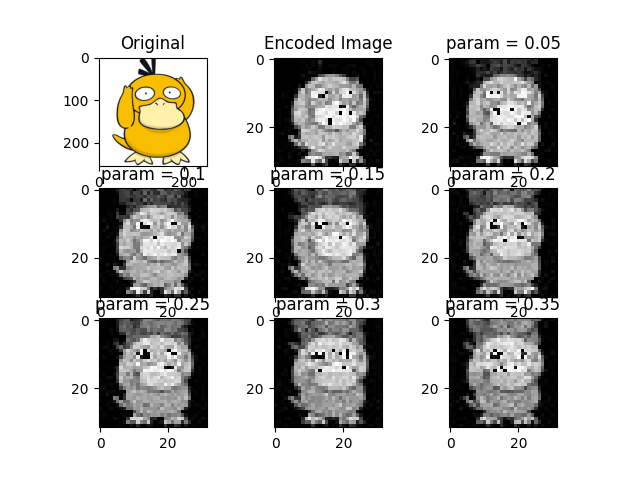
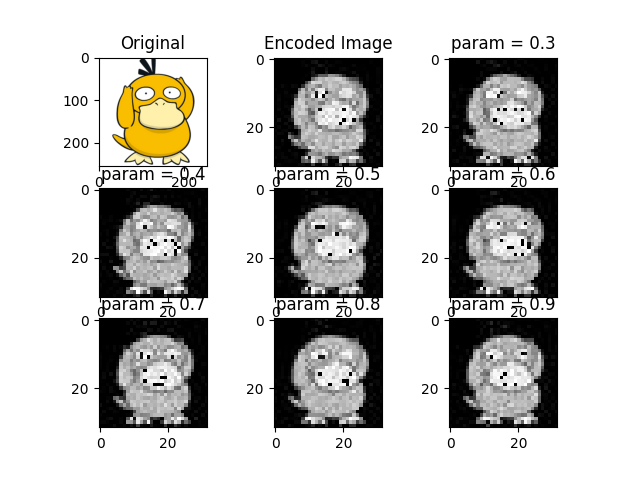
new upload

diff --git a/experiments.py b/experiments.py
@@ -1,4 +1,7 @@
 from PIL import Image
+from fontTools.ttLib.tables.ttProgram import instructions
+from qiskit.circuit.library.standard_gates.equivalence_library import instr
+
 from imageUtil import *
 from generalImageRepresentation import *
 from circuits import amplitudeEncoding, simulate
@@ -32,7 +35,7 @@ def experiments(experSettings):
         qc, sqSum, n = amplitudeEncoding(vec)
         keySet = generateKeySet(n)
         # build ideal simulator
-        ideal_sim = constructBackend('statevector', 0, n)
+        ideal_sim = constructBackend('statevector', 0, n, [])
         distIdeal = simulate(qc, shots, ideal_sim)
         imgEncoded = ampDisReversion(distIdeal, keySet, sqSum, shots, n)
         encodedImgPath = imageSave(imgEncoded, 'Encoded', result_home, params=0)
@@ -48,7 +51,7 @@ def experiments(experSettings):
 
         # experiment on noise simulator
         for param in tqdm(experSettings['modelParams']):
-            noise_sim = constructBackend(method=experSettings['noiseModel'], params = param, qb_nums=n)
+            noise_sim = constructBackend(method=experSettings['noiseModel'], params = param, qb_nums=n, instructions=experSettings['instructions'])
             dist = simulate(qc, shots, noise_sim)
             imgProcessed = ampDisReversion(dist, keySet, sqSum, shots, n)
             imgProcessedPath = imageSave(
@@ -94,7 +97,7 @@ def experiments(experSettings):
             cmap='RGB'
         )
         qc, n = MCRQI(img)
-        ideal_sim = constructBackend('aer', 0, n)
+        ideal_sim = constructBackend('aer', 0, n, [])
         distIdeal = simulate(qc, shots, ideal_sim)
         imgEncoded = Rev_MCRQI(img, distIdeal, to_print=False)
         encodedImgPath = imageSave(imgEncoded, 'Encoded', result_home, params=0)
@@ -110,7 +113,7 @@ def experiments(experSettings):
 
         # experiment on noise simulator
         for param in tqdm(experSettings['modelParams']):
-            noise_sim = constructBackend(method=experSettings['noiseModel'], params = param, qb_nums=n)
+            noise_sim = constructBackend(method=experSettings['noiseModel'], params = param, qb_nums=n, instructions=experSettings['instructions'])
             dist = simulate(qc, shots, noise_sim)
             imgProcessed = Rev_MCRQI(img, dist, to_print=False)
             # print(type(imgProcessed))
@@ -158,7 +161,7 @@ def experiments(experSettings):
             cmap='L'
         )
         qc, n = FRQI(img)
-        ideal_sim = constructBackend('aer', 0, n)
+        ideal_sim = constructBackend('aer', 0, n, [])
         distIdeal = simulate(qc, shots, ideal_sim)
         imgEncoded = Rev_FRQI(img, distIdeal)
         encodedImgPath = imageSave(imgEncoded, 'Encoded', result_home, params=0)
@@ -174,7 +177,7 @@ def experiments(experSettings):
 
         # experiment on noise simulator
         for param in tqdm(experSettings['modelParams']):
-            noise_sim = constructBackend(method=experSettings['noiseModel'], params = param, qb_nums=n)
+            noise_sim = constructBackend(method=experSettings['noiseModel'], params = param, qb_nums=n,instructions=experSettings['instructions'])
             dist = simulate(qc, shots, noise_sim)
             imgProcessed = Rev_FRQI(img, dist)
             imgProcessedPath = imageSave(
@@ -219,7 +222,7 @@ def experiments(experSettings):
             cmap='L'
         )
         qc,n = NEQR(img)
-        ideal_sim = constructBackend('aer', 0, n)
+        ideal_sim = constructBackend('aer', 0, n, [])
         distIdeal = simulate(qc, shots, ideal_sim)
         imgEncoded = Rev_NEQR(img, distIdeal)
         encodedImgPath = imageSave(imgEncoded, 'Encoded', result_home, params=0)
@@ -235,7 +238,7 @@ def experiments(experSettings):
 
         # experiment on noise simulator
         for param in tqdm(experSettings['modelParams']):
-            noise_sim = constructBackend(method=experSettings['noiseModel'], params = param, qb_nums=n)
+            noise_sim = constructBackend(method=experSettings['noiseModel'], params = param, qb_nums=n, instructions=experSettings['instructions'])
             dist = simulate(qc, shots, noise_sim)
             imgProcessed = Rev_NEQR(img, dist)
             imgProcessedPath = imageSave(
@@ -290,6 +293,8 @@ if __name__ == '__main__':
         'resize': 32,
         'originalImgPath': IMG_PATH,
         'home_path': 'result/AmpEn_AmpDam/',
+        'instructions': ['measure']
+        # 'instructions': ['u1, u2, u3']
     }
 
     experiment_settings_MCRQI = {
@@ -300,6 +305,7 @@ if __name__ == '__main__':
         'resize': 16,
         'originalImgPath': IMG_PATH,
         'home_path': 'result/MCRQI_AmpDam/',
+        'instructions': ['measure']
     }
 
     experiment_settings_FRQI = {
@@ -310,6 +316,7 @@ if __name__ == '__main__':
         'resize': 16,
         'originalImgPath': IMG_PATH,
         'home_path': 'result/FRQI_AmpDam/',
+        'instructions': ['measure']
     }
 
     experiment_settings_NEQR = {
@@ -320,6 +327,7 @@ if __name__ == '__main__':
         'resize': 4,
         'originalImgPath': IMG_PATH,
         'home_path': 'result/NEQR_AmpDam/',
+        'instructions': ['measure']
     }
 
     imgDictList,imgDiffList = experiments(experiment_settings_AMP)

diff --git a/noise_model.py b/noise_model.py
@@ -60,7 +60,7 @@ def constructDepolarizationNoiseModel(param_dep):
     return noise_model
 
 # Amplitude Damping Model on Measurement
-def constructAmplitudeDampingNoiseModel(param_meas, qb_nums, rand):
+def constructAmplitudeDampingNoiseModel(param_meas, qb_nums, rand, instructions):
     # construct error
     qerror_meas = amplitude_damping_error(param_meas)
     # build noise model
@@ -71,13 +71,9 @@ def constructAmplitudeDampingNoiseModel(param_meas, qb_nums, rand):
             noise_model.add_quantum_error(qerror_meas, 'measure', [sample])
         return noise_model
     else:
-        # noise_model.add_all_qubit_quantum_error(qerror_meas, "reset")
-        # noise_model.add_all_qubit_quantum_error(qerror_meas, "measure")
-        noise_model.add_quantum_error(qerror_meas, 'measure', [9])
+        noise_model.add_all_qubit_quantum_error(qerror_meas, instructions=instructions)
+        # noise_model.add_quantum_error(qerror_meas, 'measure', [9])
         # noise_model.add_all_qubit_quantum_error(qerror_meas, ['u1', 'u2', 'u3'])
-        # error_gate1 = pauli_error([("X", param_meas), ("I", 1 - param_meas)])
-        # error_gate2 = error_gate1.tensor(error_gate1)
-        # noise_model.add_all_qubit_quantum_error(error_gate2, ["cx"])
         return noise_model
 
 # Phase Damping Model on phase gate

diff --git a/qiskit_backend.py b/qiskit_backend.py
@@ -4,7 +4,7 @@ from qiskit_aer import Aer, AerSimulator
 from noise_model import *
 
 # construct backend
-def constructBackend(method, params, qb_nums):
+def constructBackend(method, params, qb_nums, instructions):
     if (method == 'statevector'):
         # ideal statevector simulator
         return Aer.get_backend('statevector_simulator')
@@ -19,7 +19,7 @@ def constructBackend(method, params, qb_nums):
         noise_model = constructBitFlipNoiseModel(params)
         return AerSimulator(noise_model = noise_model)
     elif (method == 'Amplitude Damping'):
-        noise_model = constructAmplitudeDampingNoiseModel(params, qb_nums, False)
+        noise_model = constructAmplitudeDampingNoiseModel(params, qb_nums, False, instructions)
         return AerSimulator(noise_model = noise_model)
     elif (method == 'Depolarization'):
         noise_model = constructDepolarizationNoiseModel(params)

diff --git a/circuits.py b/circuits.py
@@ -222,7 +222,7 @@ if __name__ == '__main__':
     # # param_phase = 0.5 # phase damping parameter
     param_bf = 0.5
     # # # # get_simulator
-    ideal_sim = constructBackend('qasm', 0, qc.num_qubits)
+    ideal_sim = constructBackend('qasm', 0, qc.num_qubits, [])
     # noise_sim = constructBackend('Depolarization', param_dep)
     # noise_sim = constructBackend('Amplitude Damping', param_meas, qc.num_qubits)
     # noise_sim = constructBackend('Phase Damping', param_phase)

diff --git a/circuitTest.py b/circuitTest.py
@@ -16,7 +16,7 @@ if __name__ == '__main__':
     qc = qramEncoding(imgArr)
     shots = 20000
     # qc.draw(output='mpl')
-    sim = constructBackend('stabilizer', 0, qc.num_qubits)
+    sim = constructBackend('stabilizer', 0, qc.num_qubits, [])
     dist = simulate(qc, shots=shots, backend=sim)
     plot_distribution(dist)
     # img = distributedBasisSimulation(imgArr, 2, shots, sim)
